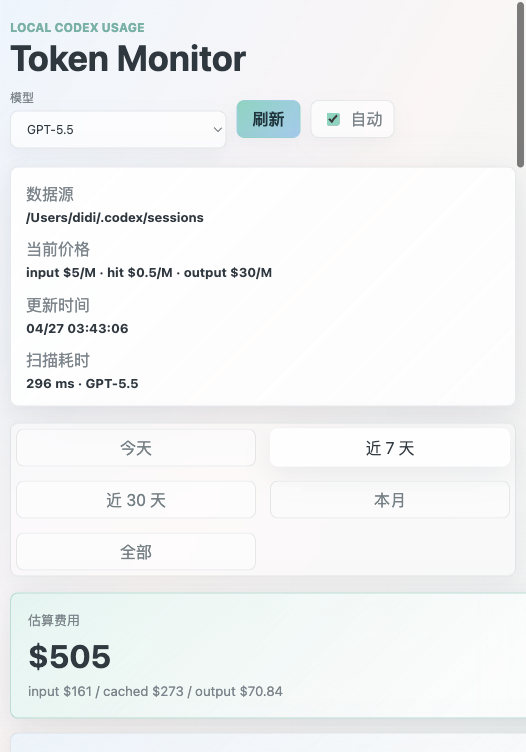
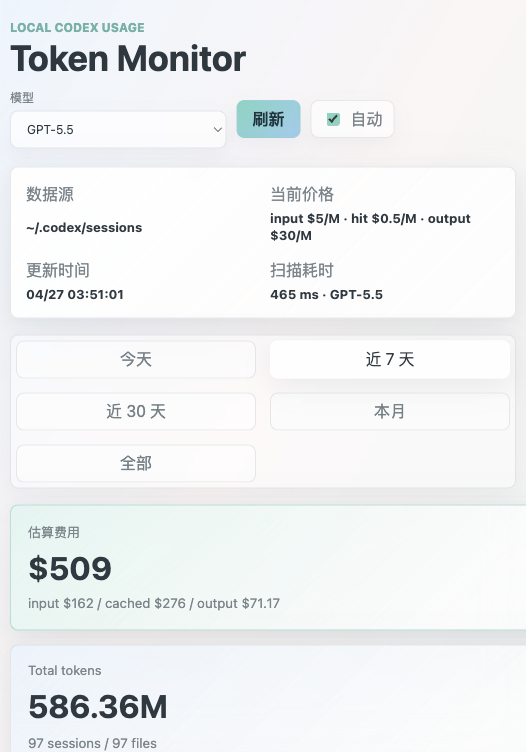
Polish status strip and local path display

diff --git a/public/styles.css b/public/styles.css
@@ -202,7 +202,7 @@ select:hover {
 }
 
 .status-strip {
-  grid-template-columns: 1.35fr 1.25fr 0.8fr auto;
+  grid-template-columns: repeat(4, minmax(0, 1fr));
   padding: 15px;
   border: 1px solid var(--line);
   border-radius: 8px;
@@ -211,6 +211,17 @@ select:hover {
     rgba(255, 255, 255, 0.58);
   box-shadow: var(--shadow);
   backdrop-filter: var(--blur);
+  transition:
+    transform 180ms ease,
+    box-shadow 180ms ease,
+    border-color 180ms ease,
+    background 180ms ease;
+}
+
+.status-strip:hover {
+  transform: translateY(-2px) scale(1.006);
+  border-color: var(--line-strong);
+  box-shadow: var(--shadow-hover);
 }
 
 .status-strip div {
@@ -220,10 +231,9 @@ select:hover {
 }
 
 .status-strip strong {
-  overflow: hidden;
   font-size: 13px;
-  text-overflow: ellipsis;
-  white-space: nowrap;
+  line-height: 1.36;
+  overflow-wrap: anywhere;
 }
 
 .range-tabs {
@@ -643,9 +653,12 @@ th.numeric {
   .topbar,
   .dashboard,
   .summary-grid,
-  .rate-grid,
-  .status-strip {
+  .rate-grid {
     grid-template-columns: 1fr;
+  }
+
+  .status-strip {
+    grid-template-columns: repeat(2, minmax(0, 1fr));
   }
 
   .topbar {
@@ -675,5 +688,11 @@ th.numeric {
   .chart svg {
     min-width: 820px;
     height: 410px;
+  }
+}
+
+@media (max-width: 460px) {
+  .status-strip {
+    grid-template-columns: 1fr;
   }
 }

diff --git a/public/app.js b/public/app.js
@@ -45,6 +45,12 @@ function setText(id, text) {
   $(id).textContent = text;
 }
 
+function displayPath(value) {
+  if (!value) return "-";
+  const text = String(value);
+  return text.replace(/^\/Users\/[^/]+/, "~");
+}
+
 function setBar(id, value) {
   const percent = Math.max(0, Math.min(100, Number(value || 0)));
   const el = $(id);
@@ -127,7 +133,7 @@ function renderSummary() {
   setText("outputTokens", formatCompact(total.outputTokens));
   setText("reasoningTokens", `${formatCompact(total.reasoningOutputTokens)} reasoning tokens included`);
 
-  setText("dataSource", state.data.meta.sessionsRoot);
+  setText("dataSource", state.data.meta.sessionsRootDisplay || displayPath(state.data.meta.sessionsRoot));
   setText(
     "priceSource",
     `input $${model.input}/M · hit ${model.cachedInput === null ? "无折扣" : `$${model.cachedInput}/M`} · output $${model.output}/M`
@@ -166,7 +172,7 @@ function renderRate() {
 
   setText(
     "rateContext",
-    `${rate.plan_type || "unknown plan"} · session snapshot · ${snapshotAge}`
+    `${rate.plan_type || "unknown plan"} · 本地快照 · ${snapshotAge}`
   );
   setText("primaryLabel", windowLabel(primary.window_minutes, "primary"));
   setText("secondaryLabel", windowLabel(secondary.window_minutes, "secondary"));

diff --git a/server.js b/server.js
@@ -107,6 +107,15 @@ function fallbackDayFromPath(filePath) {
   return match ? `${match[1]}-${match[2]}-${match[3]}` : "unknown";
 }
 
+function displayPath(filePath) {
+  const home = os.homedir();
+  if (filePath === home) return "~";
+  if (filePath.startsWith(`${home}${path.sep}`)) {
+    return `~${path.sep}${path.relative(home, filePath)}`;
+  }
+  return filePath;
+}
+
 function walkJsonl(dir, out = []) {
   let entries = [];
   try {
@@ -576,6 +585,7 @@ function buildScan() {
       cacheTtlMs: CACHE_TTL_MS,
       refreshNote: "Rate limits are read from Codex session token_count snapshots.",
       sessionsRoot: SESSIONS_ROOT,
+      sessionsRootDisplay: displayPath(SESSIONS_ROOT),
       fileCount: files.length,
       cacheEntries: fileCache.size
     },
